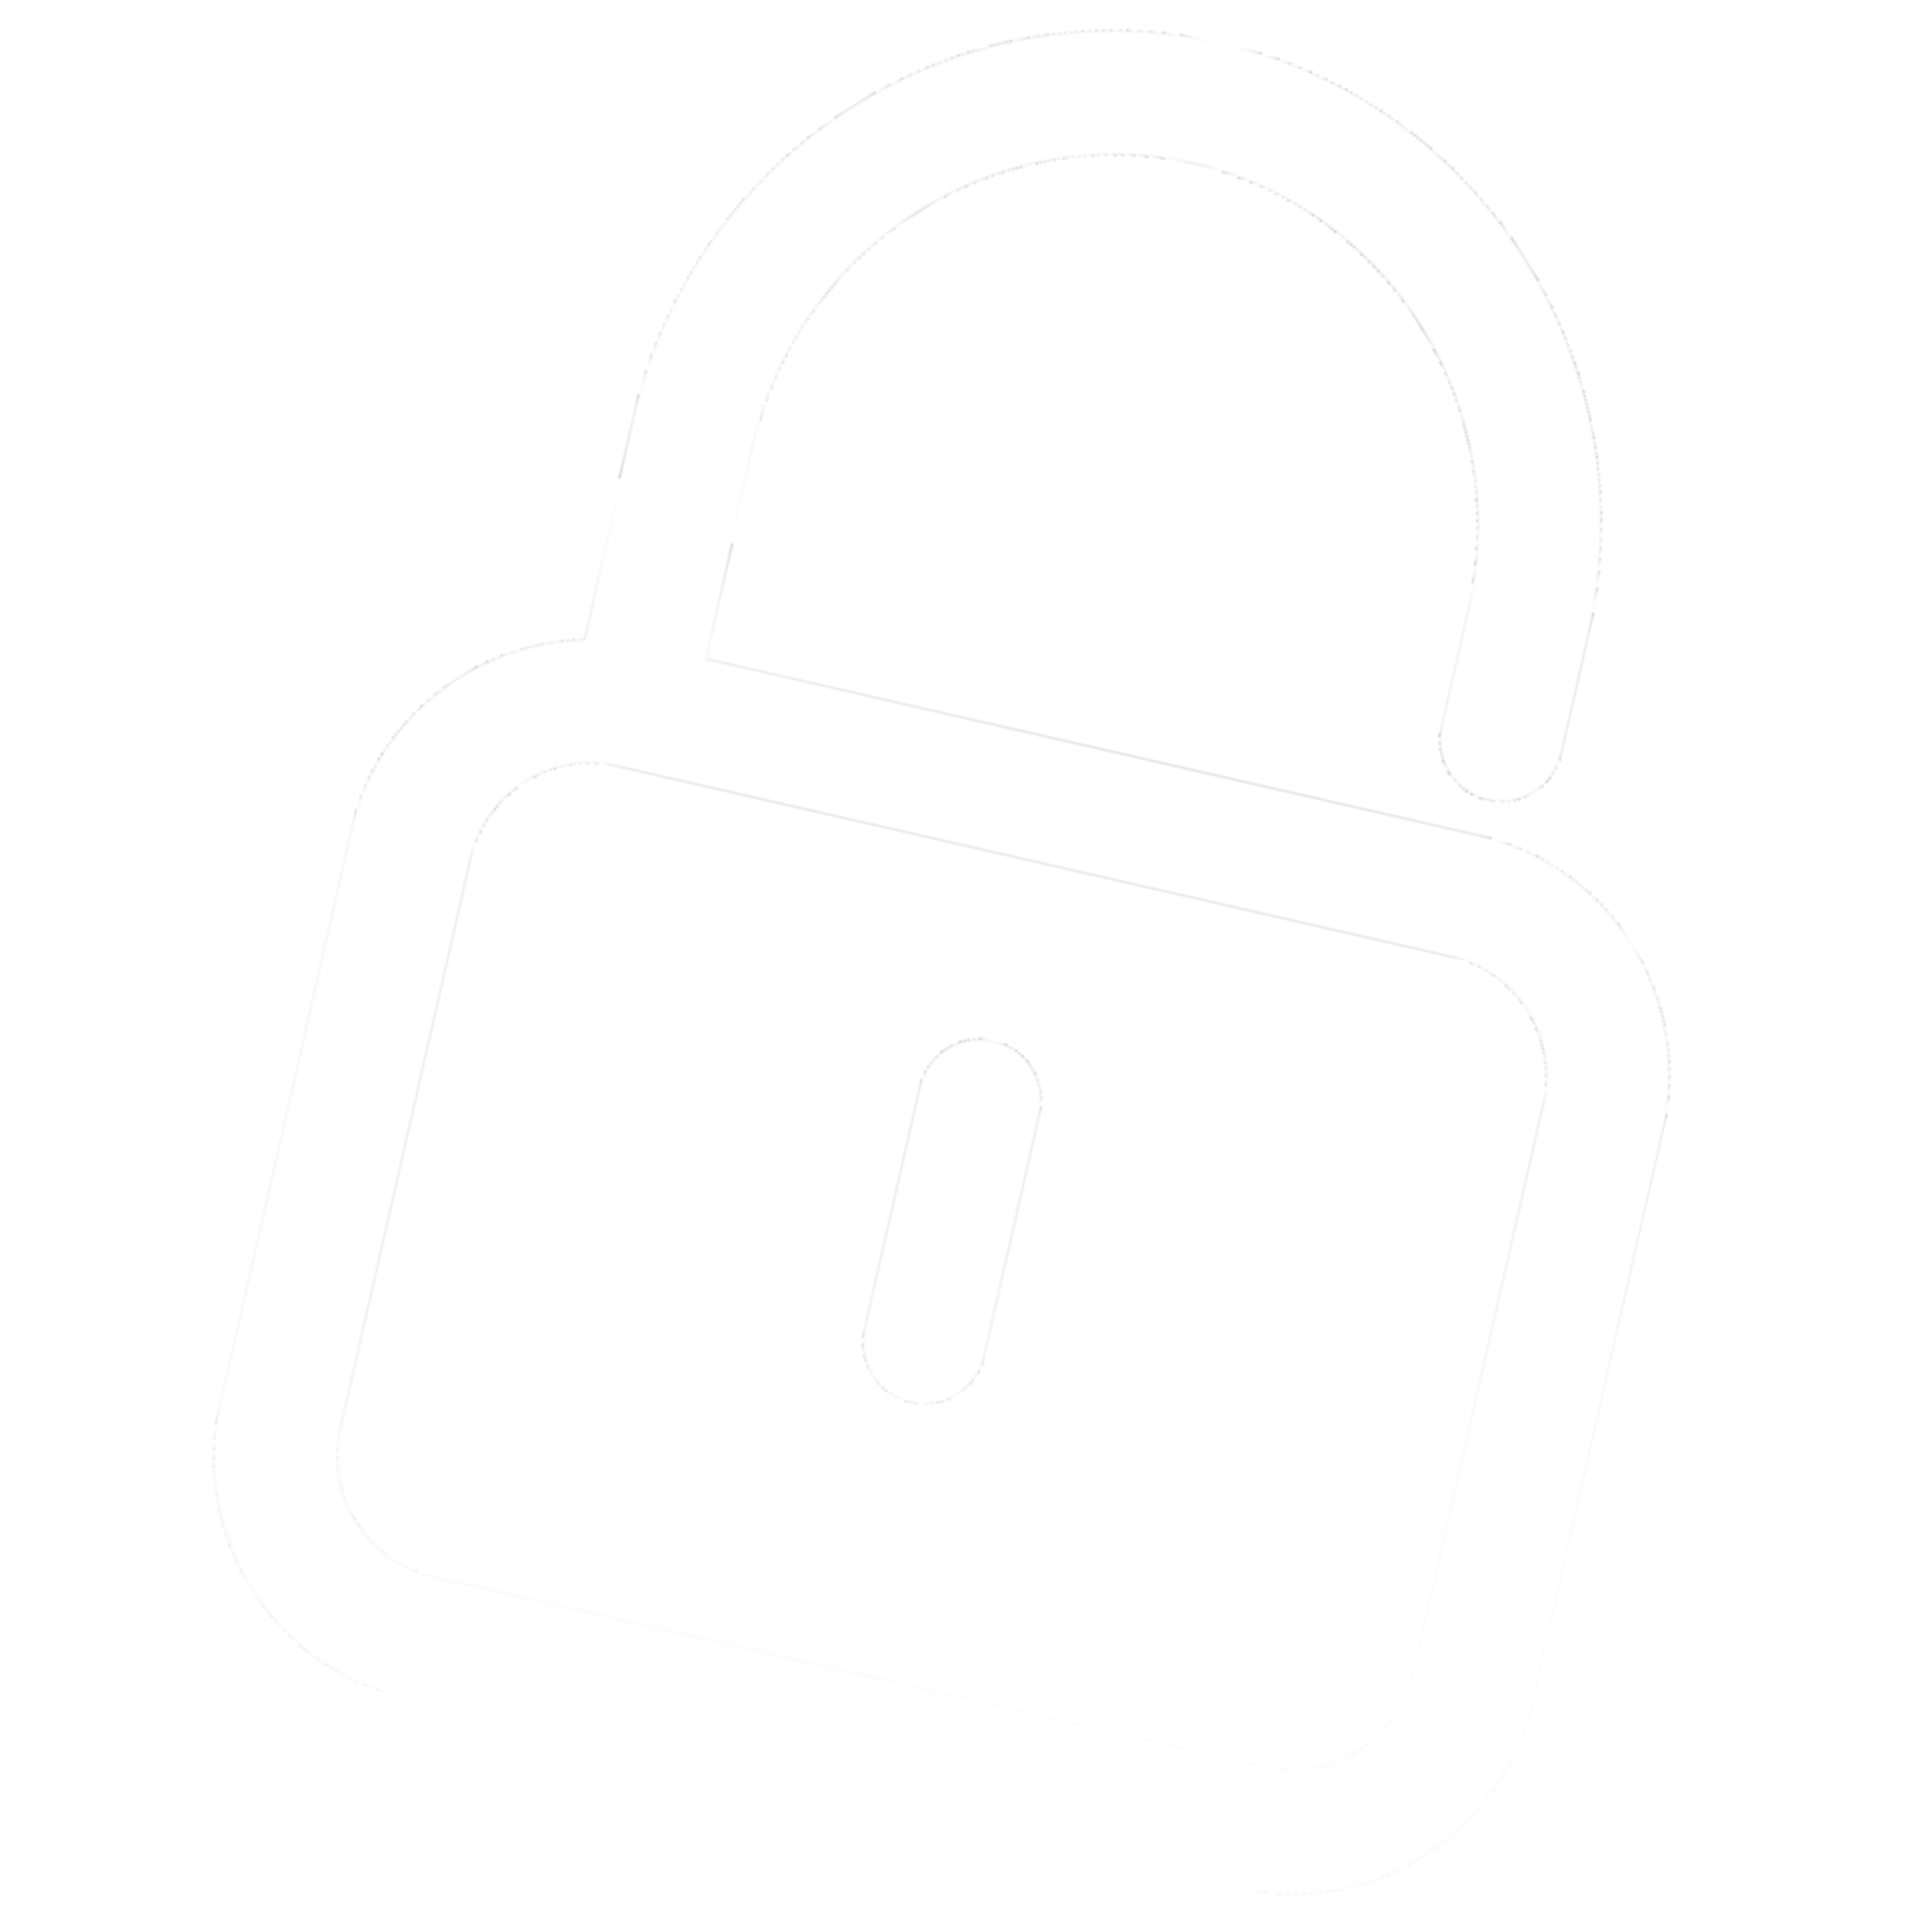
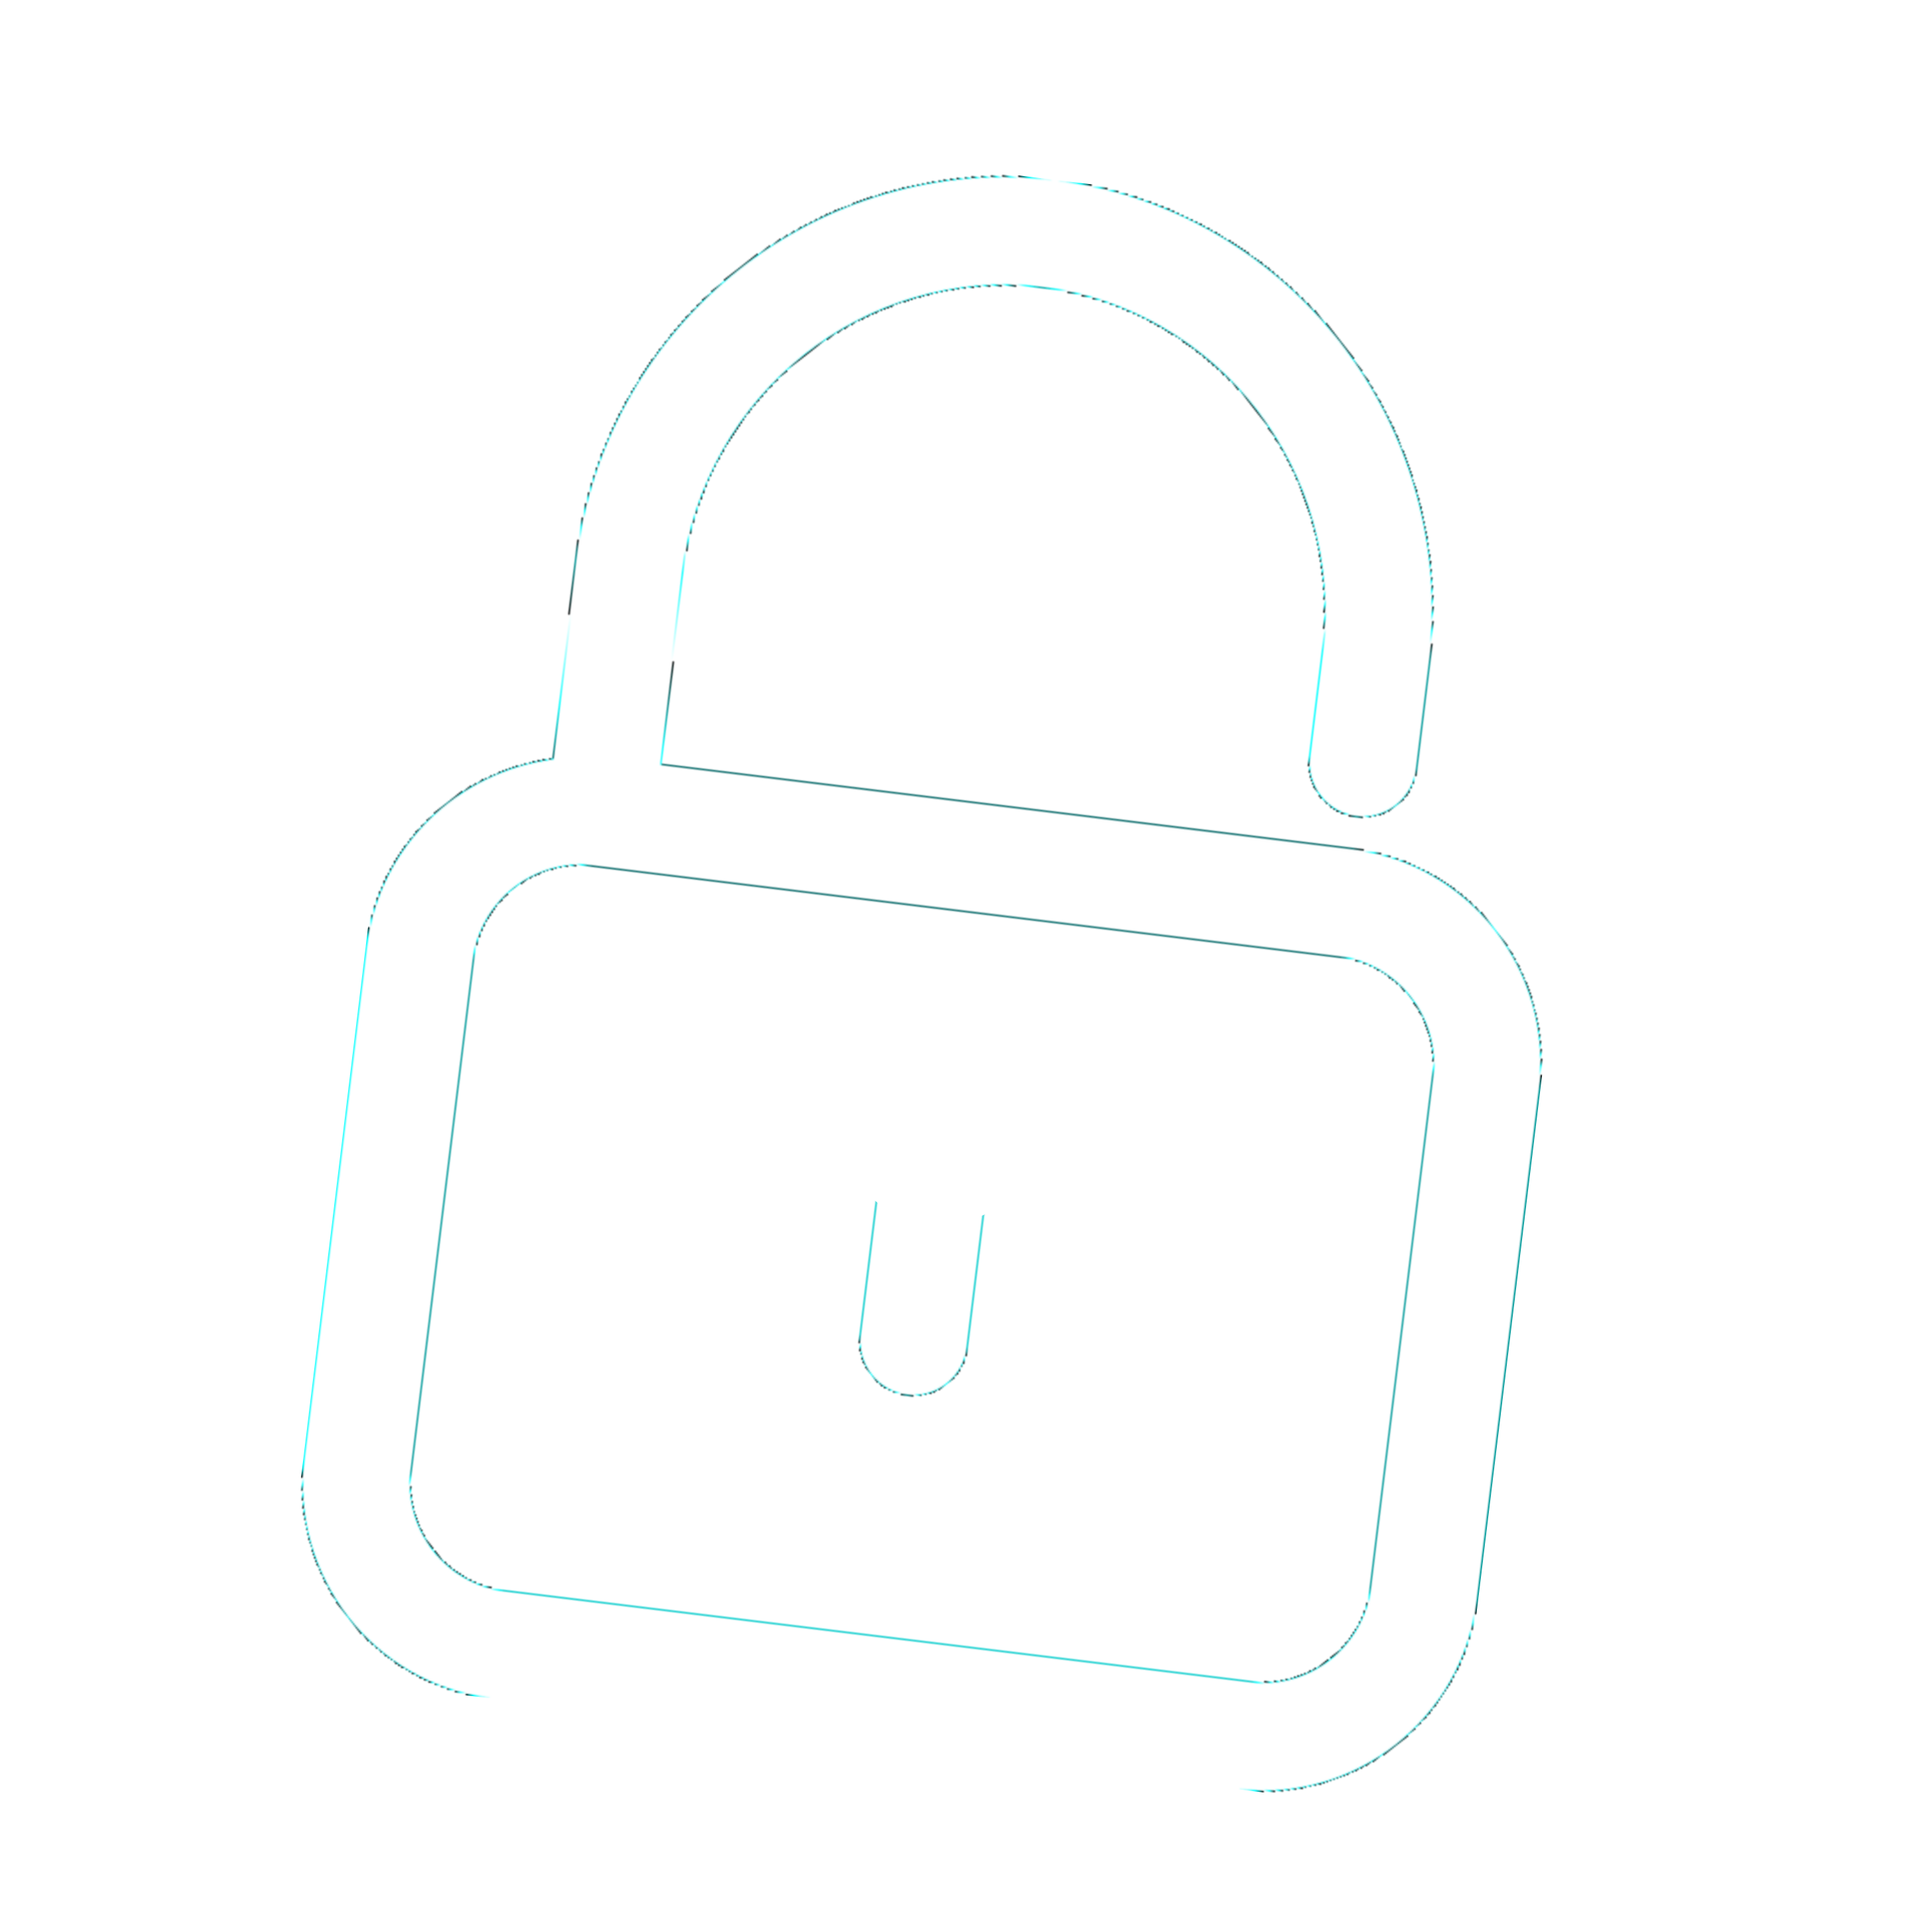
comitting changes before the password checker

Changed region(s): [[0.3419, 0.3729, 0.3729, 0.404]]

diff --git a/notes/templates/changepassword.html b/notes/templates/changepassword.html
@@ -28,7 +28,7 @@ input[type="password"] {
 <div class="container ">
     <div class="row">
     <div class="col-sm-4">
-        <img src="{% static 'images/lock1.png' %}" style="width:150%; height:500px; opacity:0.1;">
+        <img src="{% static 'images/lock.png' %}" style="width:127%; height:450px; opacity:0.1;">
     </div>
         <div class="col-sm-4">
         <br>
@@ -49,8 +49,12 @@ input[type="password"] {
                 
               </form>
         </div>
+        <div class="col-sm-4">
+            <img src="{% static 'images/lock2.png' %}" style="width:150%; height:500px; opacity:0.1;">
+        </div>
     </div>
     </div>
+
     </div>
     </div>
 {% endblock %}

diff --git a/notes/templates/profile.html b/notes/templates/profile.html
@@ -1,5 +1,6 @@
 {% extends 'usernavigation.html'%}
 {% block body %}
 {% load static %}
-<h1 class="text-white">welcome</h1>
+<h1 class="text-white text-center pt-5"><span style="color:rgb(0, 255, 98); font-family:'Consolas'; font-weight:bold; font-size:70;">Welcome </span><span style="color:rgb(255, 255, 255); font-family:'Consolas'; font-size:50;">to </span><span style="color:rgb(255, 255, 255); font-family:'Consolas'; font-size:70;">Share</span><span style="color:rgb(0, 255, 98); font-weight:bold; font-family:'Consolas'; font-size:70;">Note</span> <span style="color:rgb(255, 255, 255); font-family:'Consolas'; font-size:70;">,{{request.user.first_name}}!</span></h1>
+
 {% endblock %}

diff --git a/notes/views.py b/notes/views.py
@@ -63,18 +63,9 @@ def signup1(request):
         b = request.POST['branch']
         r = request.POST['role']
         try:
-<<<<<<< HEAD
             user = User.objects.create_user(username=e,password=p,first_name=f,last_name=l)
             Signup.objects.create(user=user,branch=b,role=r)
             error="no"
-=======
-            user = User.object.create_user(username=e,
-                                           password=p,
-                                           first_name=f,
-                                           last_name=l)
-            Signup.object.create(user=user, branch=b, role=r)
-            error = "no"
->>>>>>> a3d714a5476484980c0f1e14d80b25fbe9ab4ec7
         except:
             error = "yes"
     d = {'error': error}
@@ -102,7 +93,7 @@ def profile(request):
 
 def changepassword(request):
     if not request.user.is_authenticated:
-        return redirect('login')    
+        return redirect('login')
     error=""
     if request.method=="POST":
         o=request.POST['old']
